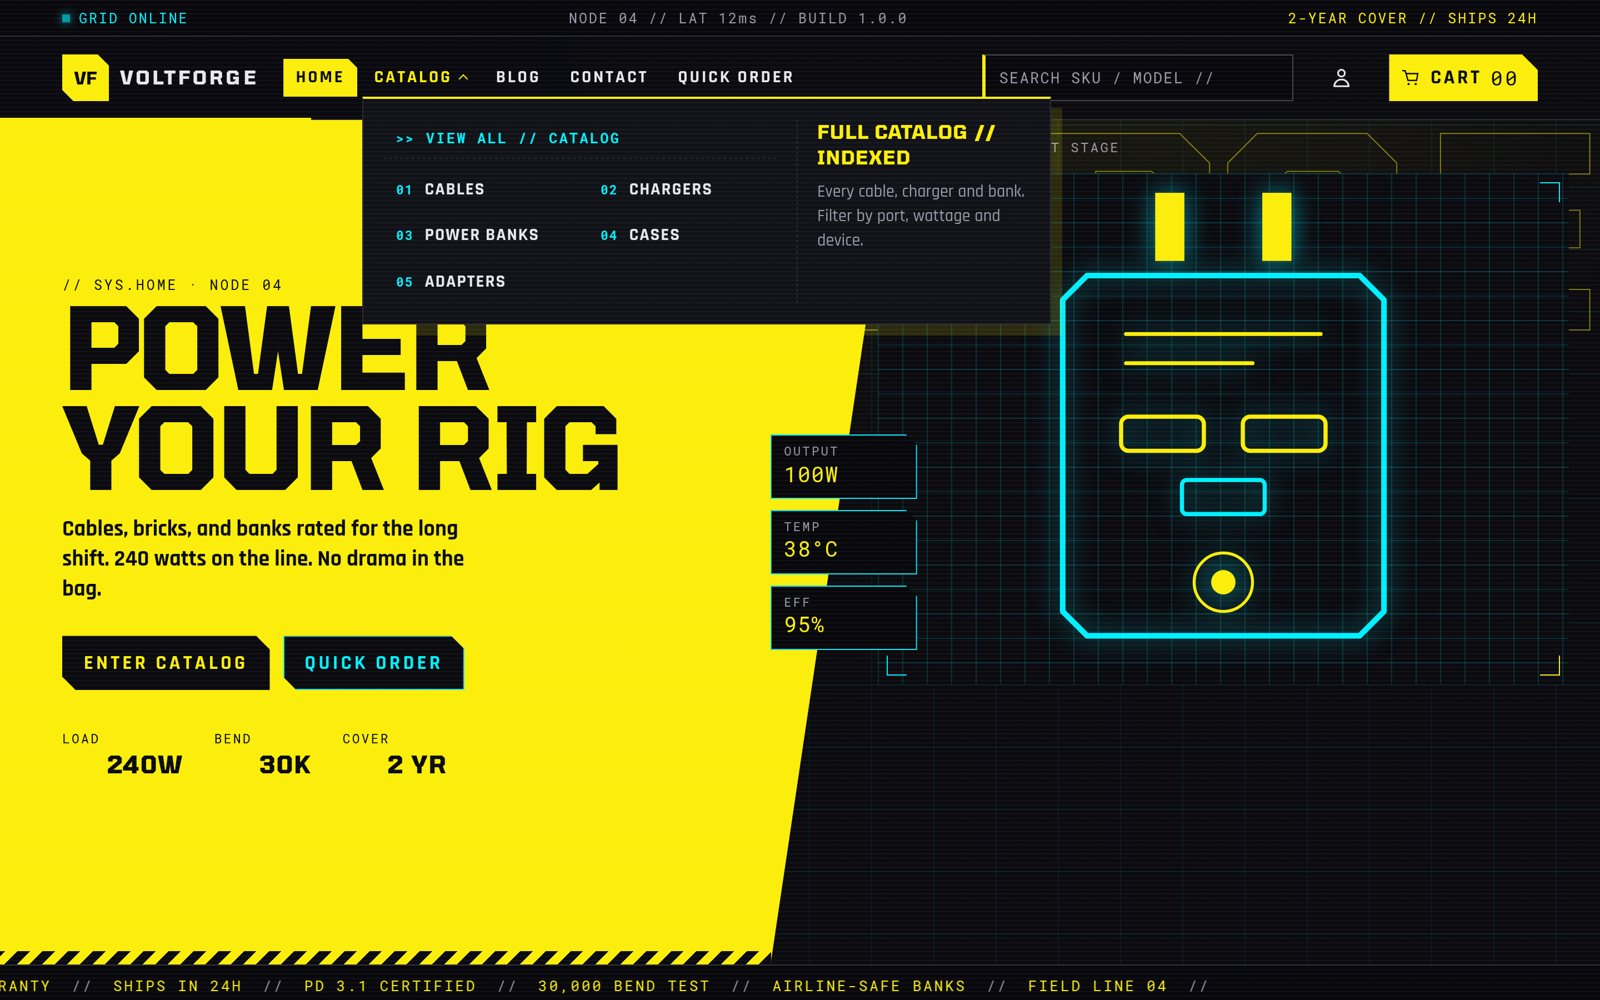
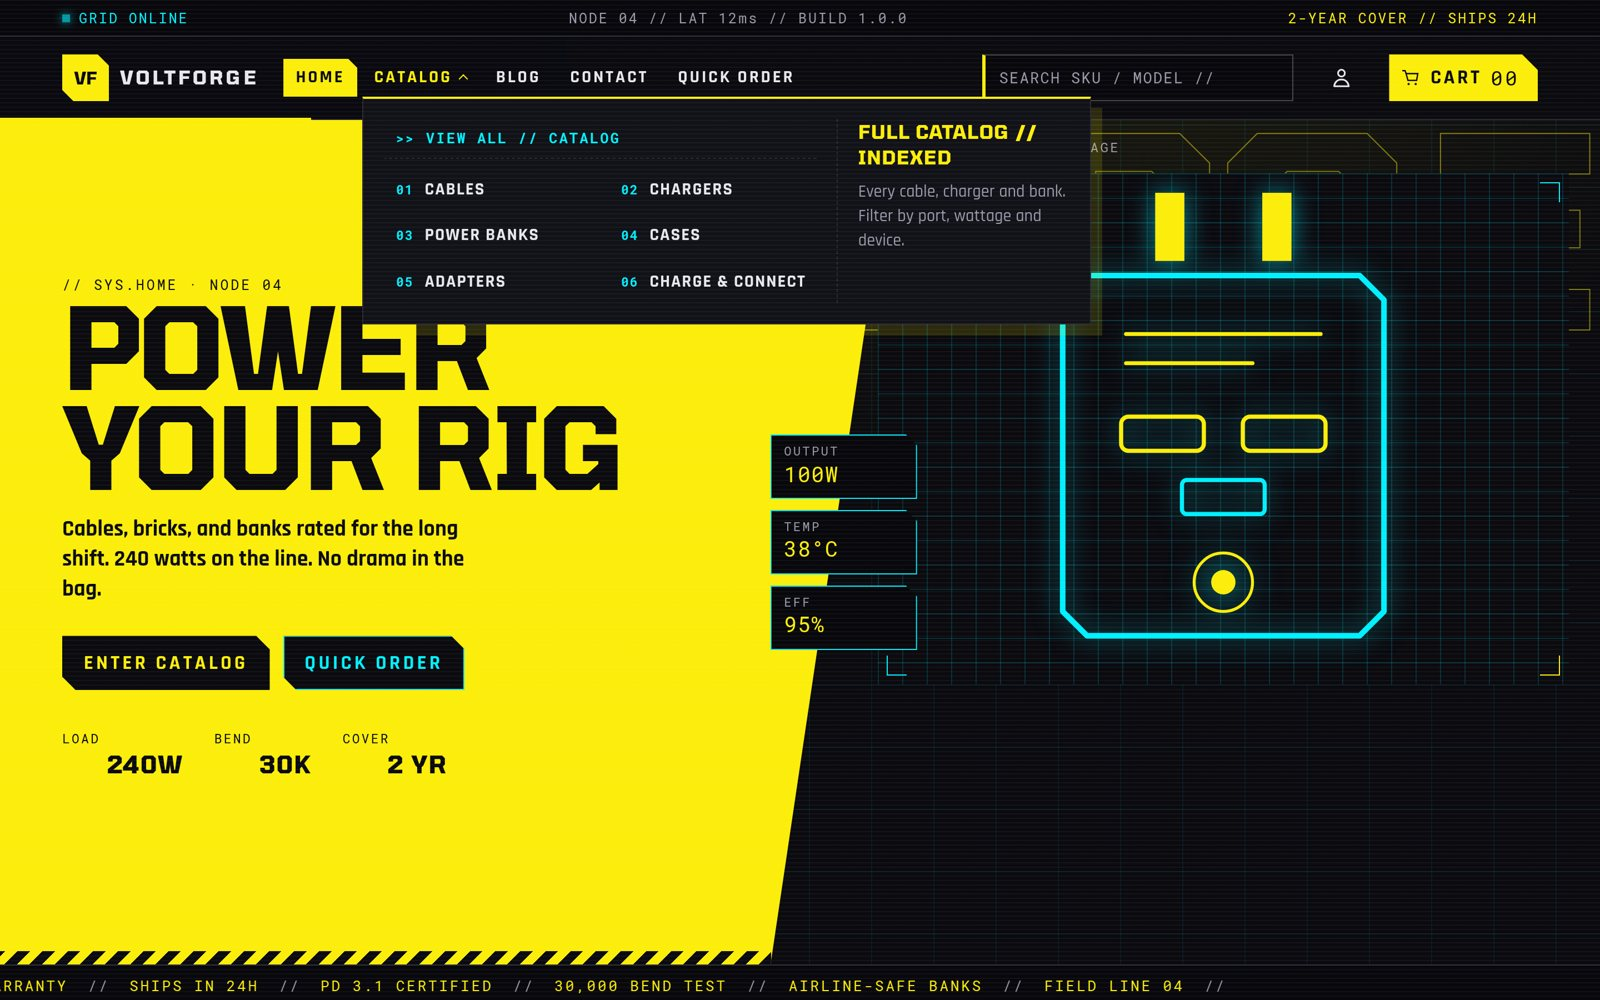
Docs: final screenshot pass on Voltforge (Charge & Connect filter collection, tax-exclusive product page, quick order ledger fit); Lighthouse figures refreshed

diff --git a/index.html b/index.html
@@ -125,7 +125,7 @@ Samsung Galaxy S23–S25</pre>
 <figure class="shot"><img src="assets/img/password.jpg" alt="Password page" loading="lazy"><figcaption>Password page</figcaption></figure></section>
 
 <section id="performance"><h2>Performance and accessibility</h2>
-<p>Cyber uses vanilla JavaScript with no frameworks, per-area CSS, lazy responsive images and fonts from the Shopify font library. Lighthouse results on the demo catalog: desktop performance 99–100 and mobile performance 84–85 (home, product, collection), with accessibility at 96–97. Most of the remaining mobile cost comes from Shopify's own scripts (analytics and the Shopify account component), which every theme loads.</p>
+<p>Cyber uses vanilla JavaScript with no frameworks, per-area CSS, lazy responsive images and fonts from the Shopify font library. Lighthouse results on the demo catalog: desktop performance 100 and mobile performance 80–91 (home, product, collection), with accessibility at 100. Most of the remaining mobile cost comes from Shopify's own scripts (analytics and the Shopify account component), which every theme loads.</p>
 <ul><li>Keyboard navigation everywhere, including mega panels and the filter console. Focus is always visible.</li><li>All animations respect reduced-motion preferences.</li><li>Upload product images at 1200px or larger. Cyber serves the right size for each screen.</li></ul></section>
 
 <section id="faq"><h2>FAQ</h2>
